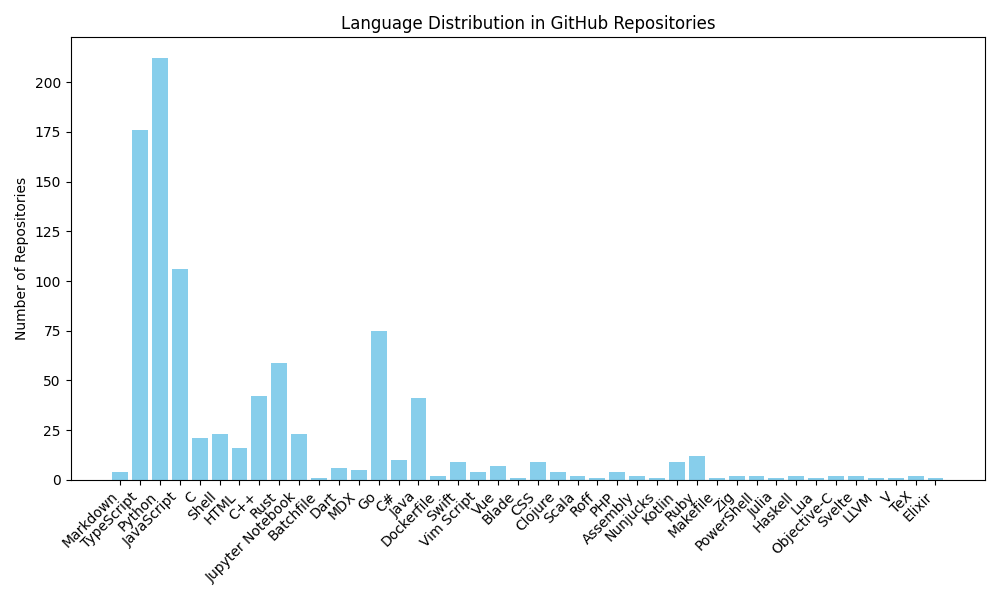
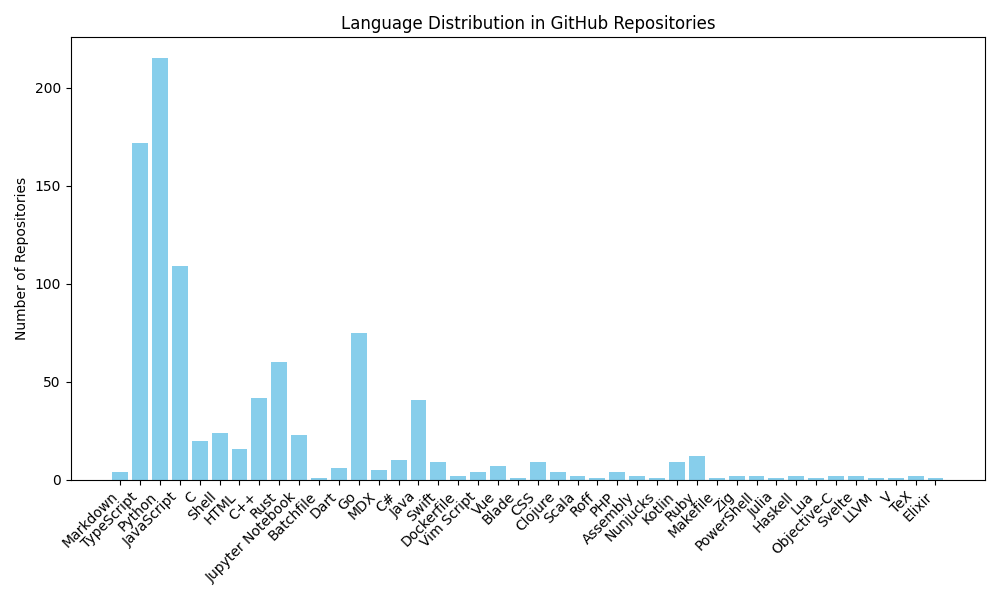
Update language distribution chart

diff --git a/README.md b/README.md
@@ -2,10 +2,10 @@
 
 ![Language Distribution Chart](language_distribution_bar_chart.png)
 
-Total repositories processed: 905
+Total repositories processed: 908
 
 Language distribution:
-Markdown: 4, TypeScript: 176, Python: 212, JavaScript: 106, C: 21, Shell: 23, HTML: 16, C++: 42, Rust: 59, Jupyter Notebook: 23, Batchfile: 1, Dart: 6, MDX: 5, Go: 75, C#: 10, Java: 41, Dockerfile: 2, Swift: 9, Vim Script: 4, Vue: 7, Blade: 1, CSS: 9, Clojure: 4, Scala: 2, Roff: 1, PHP: 4, Assembly: 2, Nunjucks: 1, Kotlin: 9, Ruby: 12, Makefile: 1, Zig: 2, PowerShell: 2, Julia: 1, Haskell: 2, Lua: 1, Objective-C: 2, Svelte: 2, LLVM: 1, V: 1, TeX: 2, Elixir: 1
+Markdown: 4, TypeScript: 172, Python: 215, JavaScript: 109, C: 20, Shell: 24, HTML: 16, C++: 42, Rust: 60, Jupyter Notebook: 23, Batchfile: 1, Dart: 6, Go: 75, MDX: 5, C#: 10, Java: 41, Swift: 9, Dockerfile: 2, Vim Script: 4, Vue: 7, Blade: 1, CSS: 9, Clojure: 4, Scala: 2, Roff: 1, PHP: 4, Assembly: 2, Nunjucks: 1, Kotlin: 9, Ruby: 12, Makefile: 1, Zig: 2, PowerShell: 2, Julia: 1, Haskell: 2, Lua: 1, Objective-C: 2, Svelte: 2, LLVM: 1, V: 1, TeX: 2, Elixir: 1
 
 
-_Last updated: 2026-05-31 02:56:13_
+_Last updated: 2026-06-07 02:59:51_